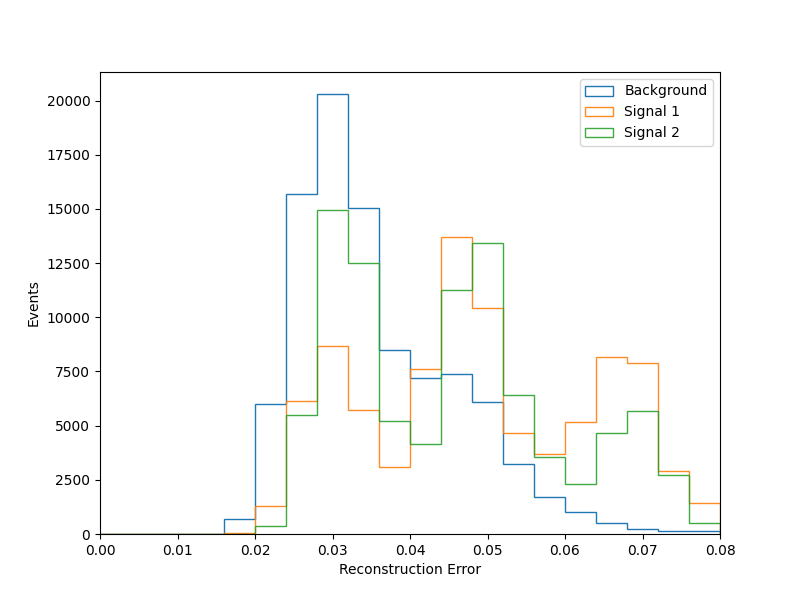
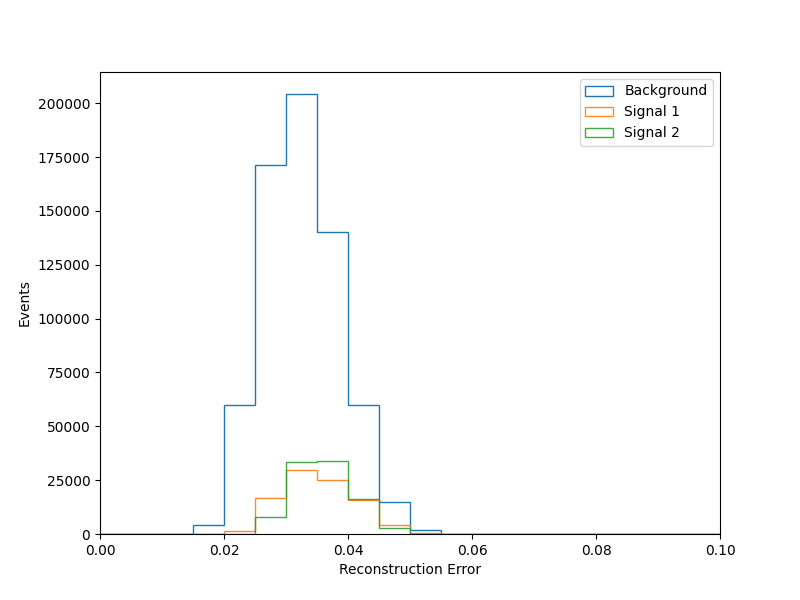
Testing with minmax scaling and 84, 14 layer dimensions

diff --git a/test.py b/test.py
@@ -152,9 +152,9 @@ loss_sig2_total = loss_sig2.mean(axis=1)
 # Plot Total Reconstruction Error
 nbins = 20
 fig, axes = plt.subplots(figsize=(8,6))
-axes.hist([loss_bkg_total], nbins, range=(0, 0.1), density=0, histtype='step', label=['Background'], stacked=True, alpha=1)
-axes.hist([loss_sig1_total], nbins, range=(0, 0.1), density=0, histtype='step', label=['Signal 1'], stacked=True, alpha=0.9)
-axes.hist([loss_sig2_total], nbins, range=(0, 0.1), density=0, histtype='step', label=['Signal 2'], stacked=True, alpha=0.9)
+axes.hist([loss_bkg_total], nbins, range=(0, 0.1), density=0\1, histtype='step', label=['Background'], stacked=True, alpha=1)
+axes.hist([loss_sig1_total], nbins, range=(0, 0.1), density=0\1, histtype='step', label=['Signal 1'], stacked=True, alpha=0.9)
+axes.hist([loss_sig2_total], nbins, range=(0, 0.1), density=0\1, histtype='step', label=['Signal 2'], stacked=True, alpha=0.9)
 axes.set_xlabel(r"Reconstruction Error")
 axes.set_ylabel("Events")
 axes.set_xlim(0, 0.1)
@@ -237,5 +237,4 @@ axes.bar(range(loss_bkg.columns.size), loss_bkg.mean().values)
 axes.set_xlabel("Features")
 axes.set_ylabel("Reconstruction error")
 axes.set_yscale("log")
-fig.legend()
 fig.savefig(f"figs/testing/error_{scale}_{mid_dim}_{latent_dim}.png")
